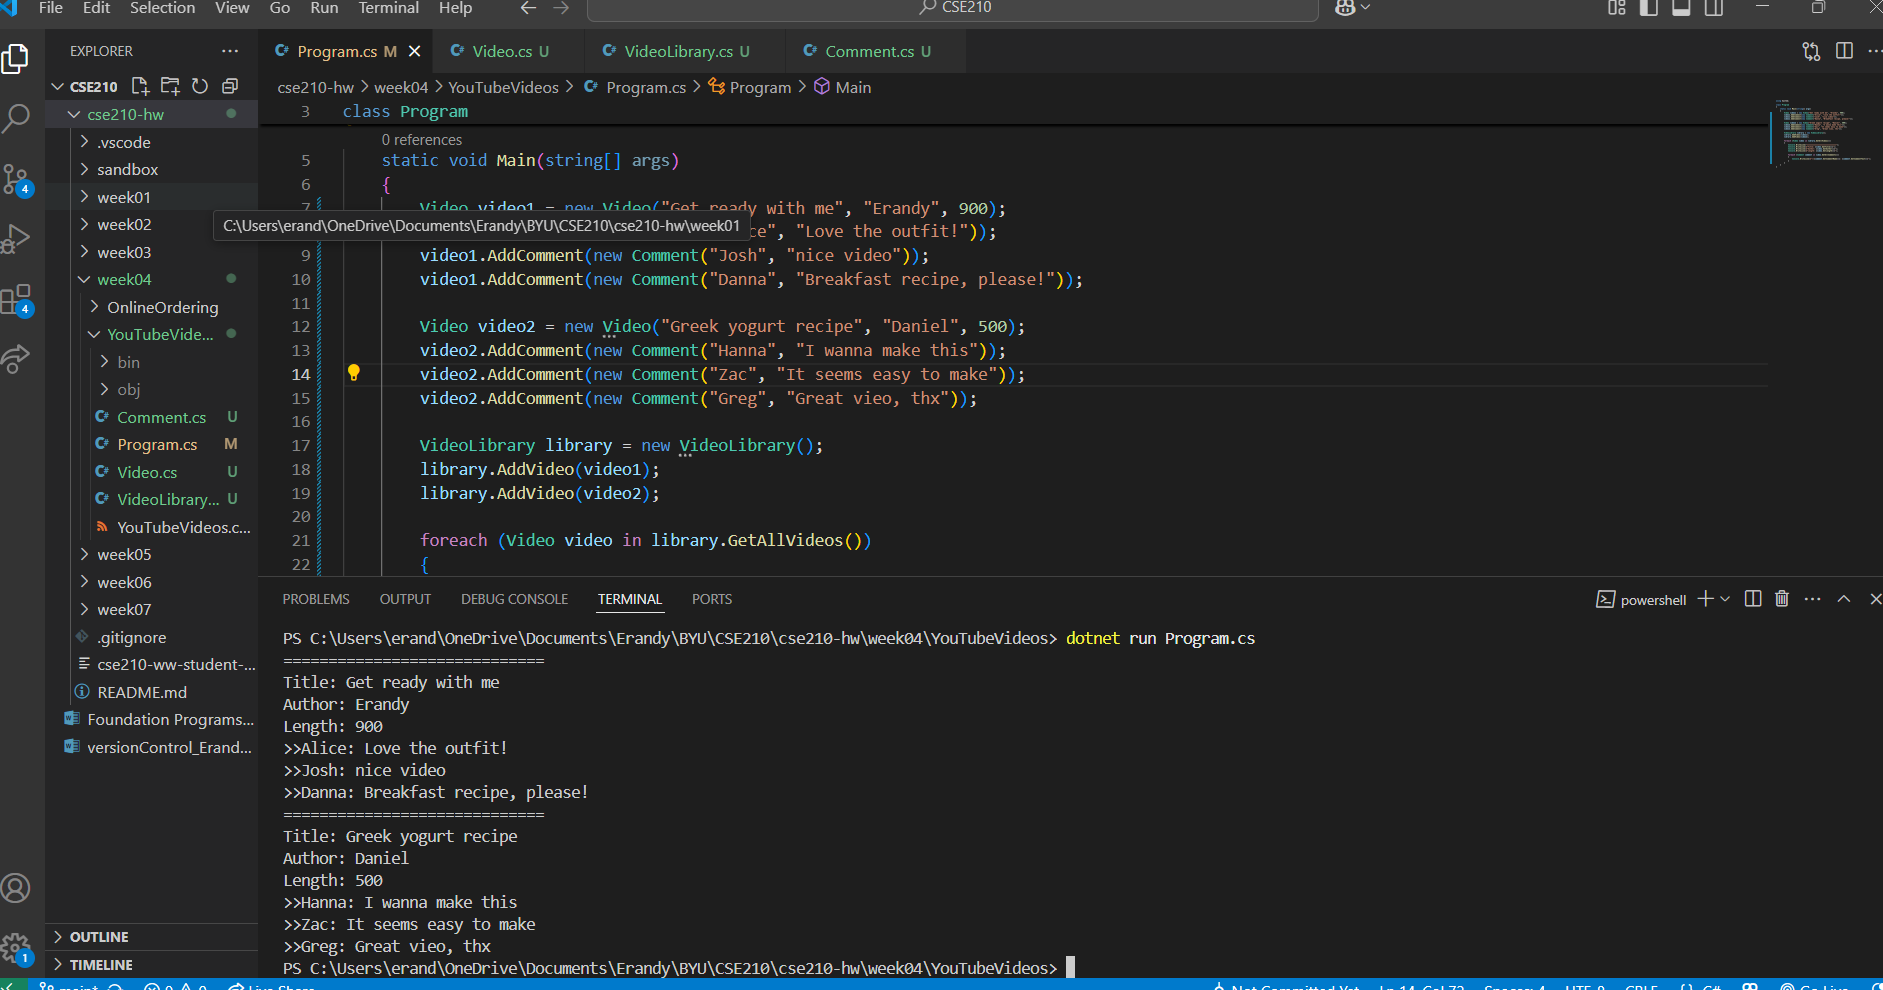
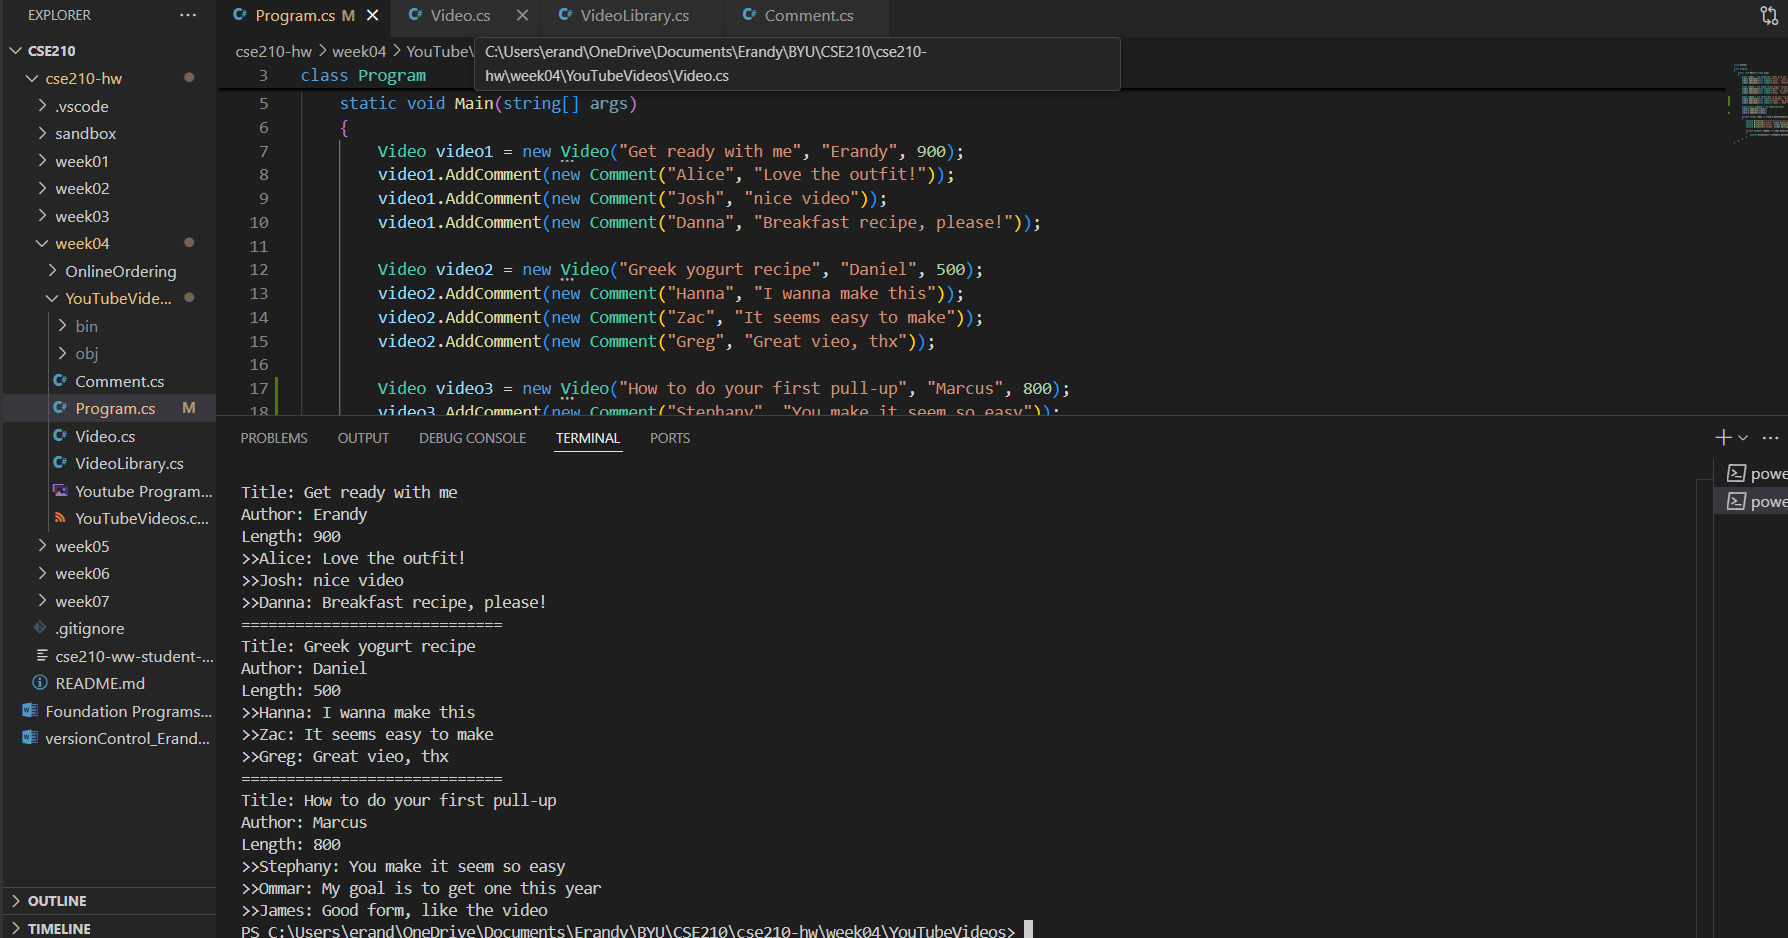
Youtube Program Video (changed image to match criteria)

diff --git a/week04/YouTubeVideos/Program.cs b/week04/YouTubeVideos/Program.cs
@@ -14,9 +14,15 @@ class Program
         video2.AddComment(new Comment("Zac", "It seems easy to make"));
         video2.AddComment(new Comment("Greg", "Great vieo, thx"));
 
+        Video video3 = new Video("How to do your first pull-up", "Marcus", 800);
+        video3.AddComment(new Comment("Stephany", "You make it seem so easy"));
+        video3.AddComment(new Comment("Ommar", "My goal is to get one this year"));
+        video3.AddComment(new Comment("James", "Good form, like the video"));
+
         VideoLibrary library = new VideoLibrary();
         library.AddVideo(video1);
         library.AddVideo(video2);
+        library.AddVideo(video3);
 
         foreach (Video video in library.GetAllVideos())
         {
